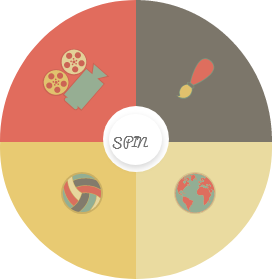
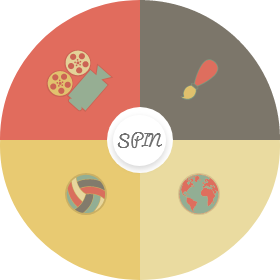
Added a spin pointer

diff --git a/spin.html b/spin.html
@@ -29,7 +29,11 @@
             </div>
         </div>
         <div id="spin-wheel">
-            <img src="Resources/spin.png" onclick="spin_the_wheel(this)">
+            <svg xmlns="http://www.w3.org/2000/svg" id="spin-triangle">
+                <polygon points="0,0 20,0 10,12" fill="white"></polygon>
+            </svg>
+            <br><br>
+            <img src="Resources/spin3.png" onclick="spin_the_wheel(this)">
         </div>
         <div id="bottom-navbar">
             <button onclick="window.location.href='profile.html';"><img src="Resources/Recurso 1.png" alt=""></button>

diff --git a/style.css b/style.css
@@ -883,6 +883,14 @@
         top: 0;
         left: 0;
     }
+    #spin-triangle {
+        position: absolute;
+        width: 21px;
+        margin: 0 auto;
+        left: 0;
+        right: 0;
+        z-index: 100;
+    }
     #spin-wheel {
         width: 80vw;
         height: 80vw;
